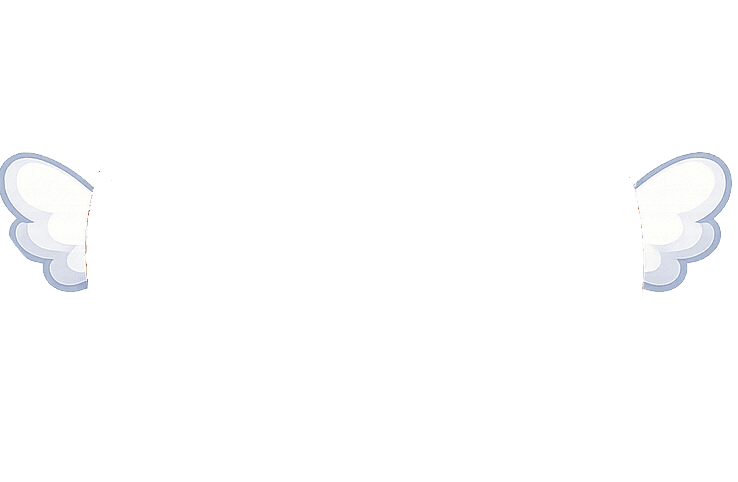
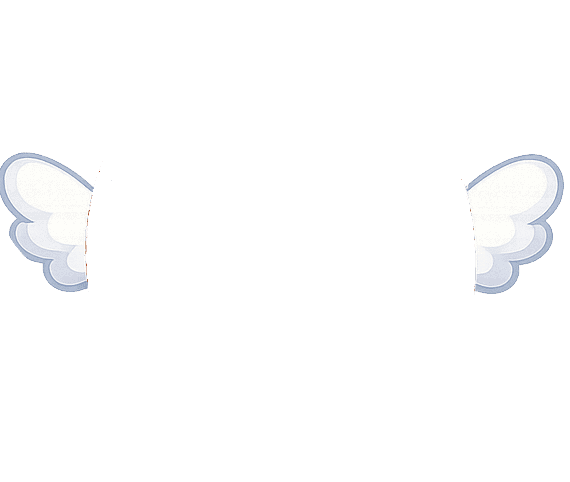
Fix : 날개 디자인 수정

Changed region(s): [[0.8053, 0.3112, 1.0, 0.6224], [0.0, 0.4046, 0.1789, 0.6224], [0.0, 0.3112, 0.1789, 0.4046]]

diff --git a/lib/features/character/widgets/character_display.dart b/lib/features/character/widgets/character_display.dart
@@ -79,19 +79,21 @@ class _CharacterDisplayState extends State<CharacterDisplay>
             // 1. Wings (Level 2+) - Static layer
             if (widget.characterLevel >= 2)
               Builder(builder: (context) {
-                // 4레벨(Egg_Wing3)과 5레벨(Egg_Wing4)일 때만 날개를 더 크게 유지(1.3배), 나머지는 원래 크기인 1.1배
+                // 4레벨이상일 때만 날개를 더 크게 유지(1.3배), 나머지는 원래 크기인 1.1배
                 final double wingScale = widget.characterLevel >= 4 ? 1.3 : 1.1;
 
                 return Transform.scale(
                   scale: wingScale,
                   child: Image.asset(
-                    widget.characterLevel >= 5
-                        ? 'assets/images/Egg_Wing4.png'
-                        : widget.characterLevel >= 4
-                            ? 'assets/images/Egg_Wing3.png'
-                            : widget.characterLevel >= 3
-                                ? 'assets/images/Egg_Wing2.png'
-                                : 'assets/images/Egg_Wing.png',
+                    widget.characterLevel >= 6
+                        ? 'assets/images/Egg_Wing5.png'
+                        : widget.characterLevel >= 5
+                            ? 'assets/images/Egg_Wing4.png'
+                            : widget.characterLevel >= 4
+                                ? 'assets/images/Egg_Wing3.png'
+                                : widget.characterLevel >= 3
+                                    ? 'assets/images/Egg_Wing2.png'
+                                    : 'assets/images/Egg_Wing.png',
                     width: charWidth,
                     height: charHeight,
                     fit: BoxFit.contain,

diff --git a/lib/features/morning/widgets/enhanced_character_room_widget.dart b/lib/features/morning/widgets/enhanced_character_room_widget.dart
@@ -166,6 +166,10 @@ class _EnhancedCharacterRoomWidgetState
             ResizeImage(const AssetImage('assets/images/Egg_Wing4.png'),
                 width: 300),
             context);
+        precacheImage(
+            ResizeImage(const AssetImage('assets/images/Egg_Wing5.png'),
+                width: 300),
+            context);
 
         _precacheCurrentDecoration();
       }
